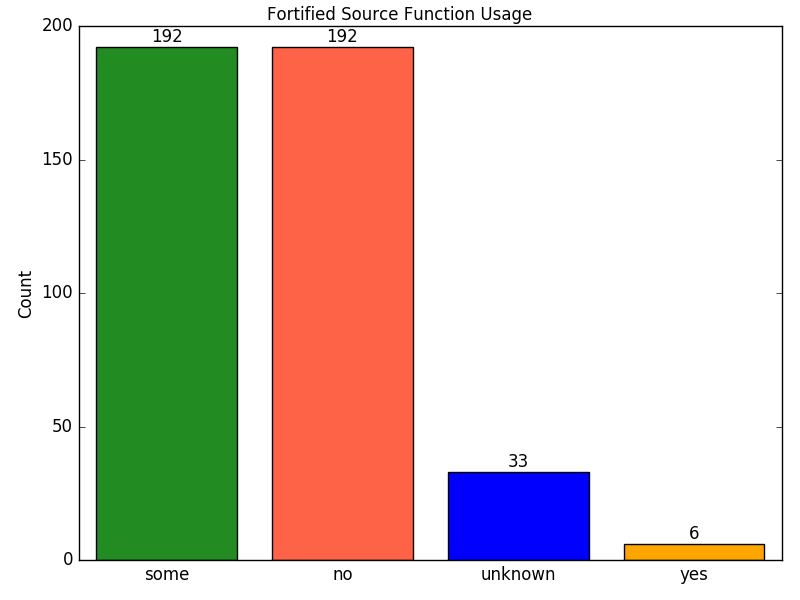
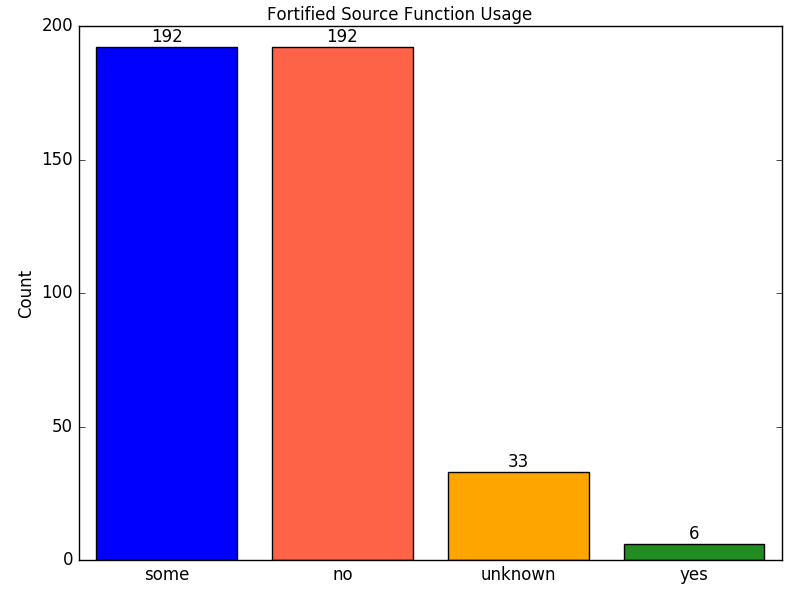
Fixed yes/no colors to forestgreen/tomato.

Changed region(s): [[0.0938, 0.06, 0.3125, 0.96], [0.5625, 0.78, 0.75, 0.96], [0.7812, 0.9, 0.9688, 0.96]]

diff --git a/infra/src/graph_generator.py b/infra/src/graph_generator.py
@@ -27,12 +27,24 @@ class GraphGenerator:
 
       # Internal state.
       self._data = None
-      self._colors = ['forestgreen', 'tomato', 'blue', 'orange', 'seagreen', 'firebrick']
+      self._colors = ['blue', 'orange', 'seagreen', 'firebrick']
 
    def _load_data(self):
       with open(self._data_file) as f:
          # Read the CSV data.
          self._data = np.array(list(csv.reader(f, delimiter=',')))
+
+   def _get_colors(self, values):
+      colors = []
+      color = cycle(self._colors)
+      for value in values:
+         if value == 'yes':
+            colors.append('forestgreen')
+         elif value == 'no':
+            colors.append('tomato')
+         else:
+            colors.append(next(color))
+      return colors
 
    def _generate_bar_graph(self):
       fig = plt.figure()
@@ -48,7 +60,7 @@ class GraphGenerator:
       y_data = self._data[:,1]
       y_pos = np.arange(len(y_data))
       if self._cycle_colors:
-         c = self._colors
+         c = self._get_colors(x_data)
       else:
          c = self._default_color
       plt.bar(y_pos, y_data, align='center', color=c)
@@ -95,7 +107,7 @@ class GraphGenerator:
          bar_offsets = np.arange(-(num_groups // 2 + 0.5) * bar_width,
                                  (num_groups // 2) * bar_width,
                                  bar_width)
-      color = cycle(self._colors)
+      color = iter(self._get_colors(self._groups))
       group_rects = [plt.bar(x_pos + bar_offset, data, bar_width, label=name,
                              color=next(color))
                      for bar_offset, name, data
